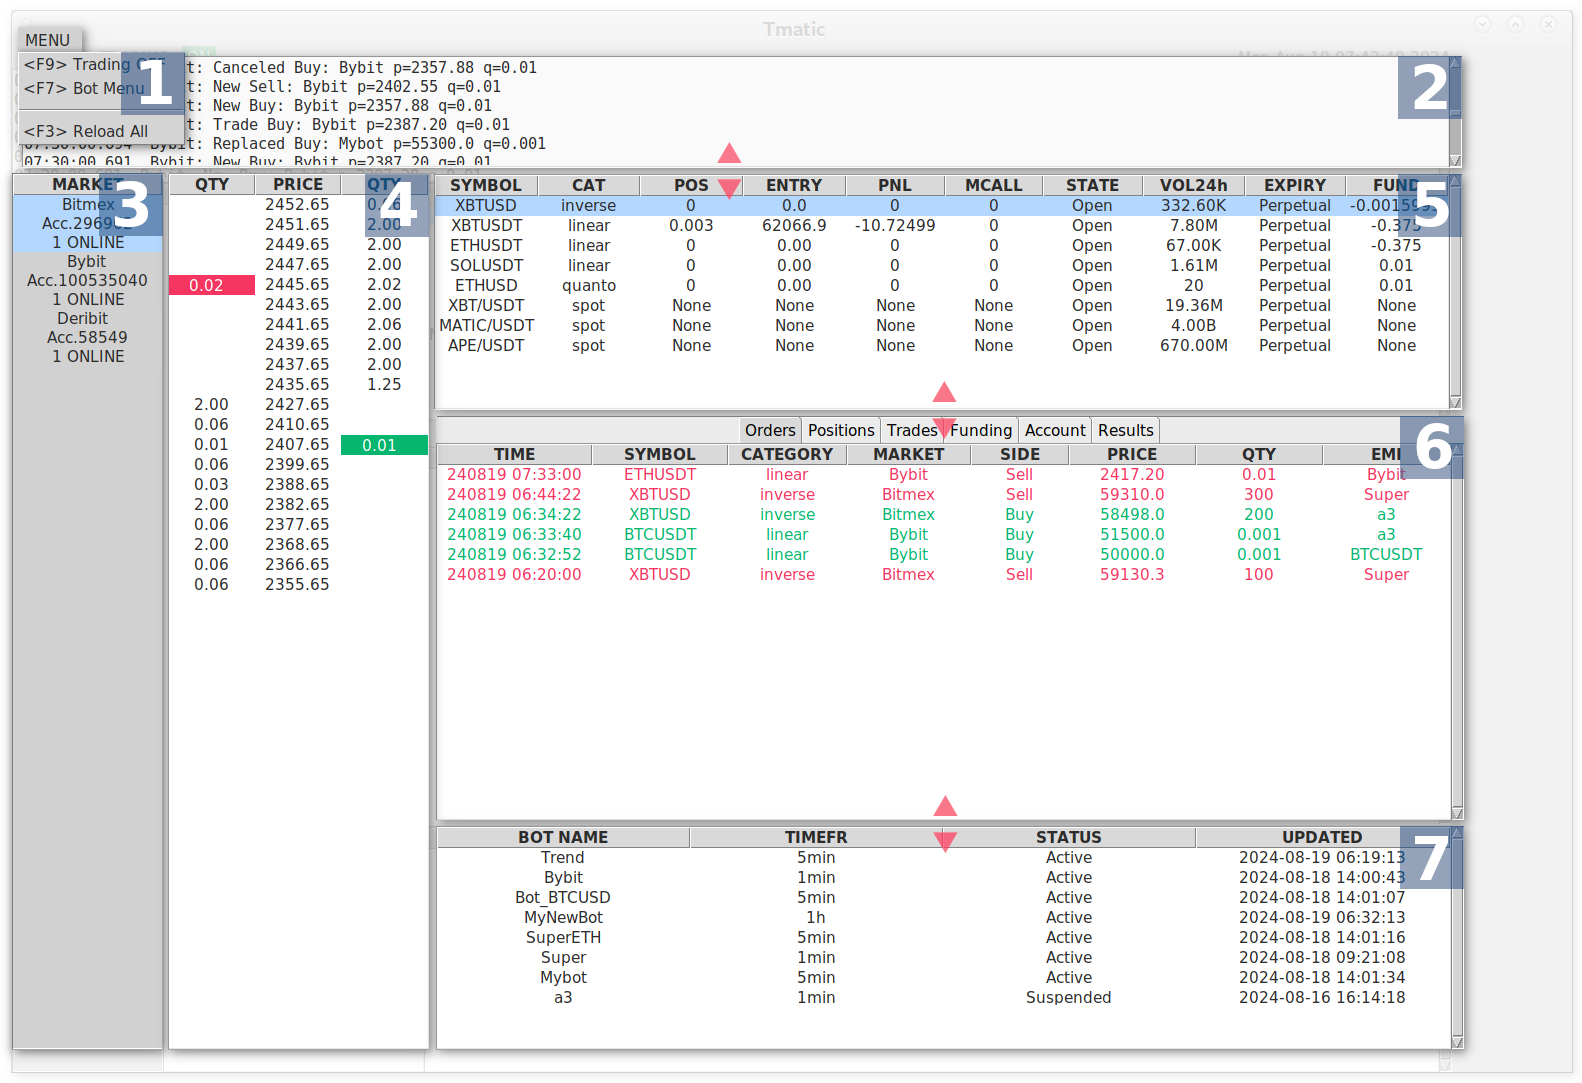
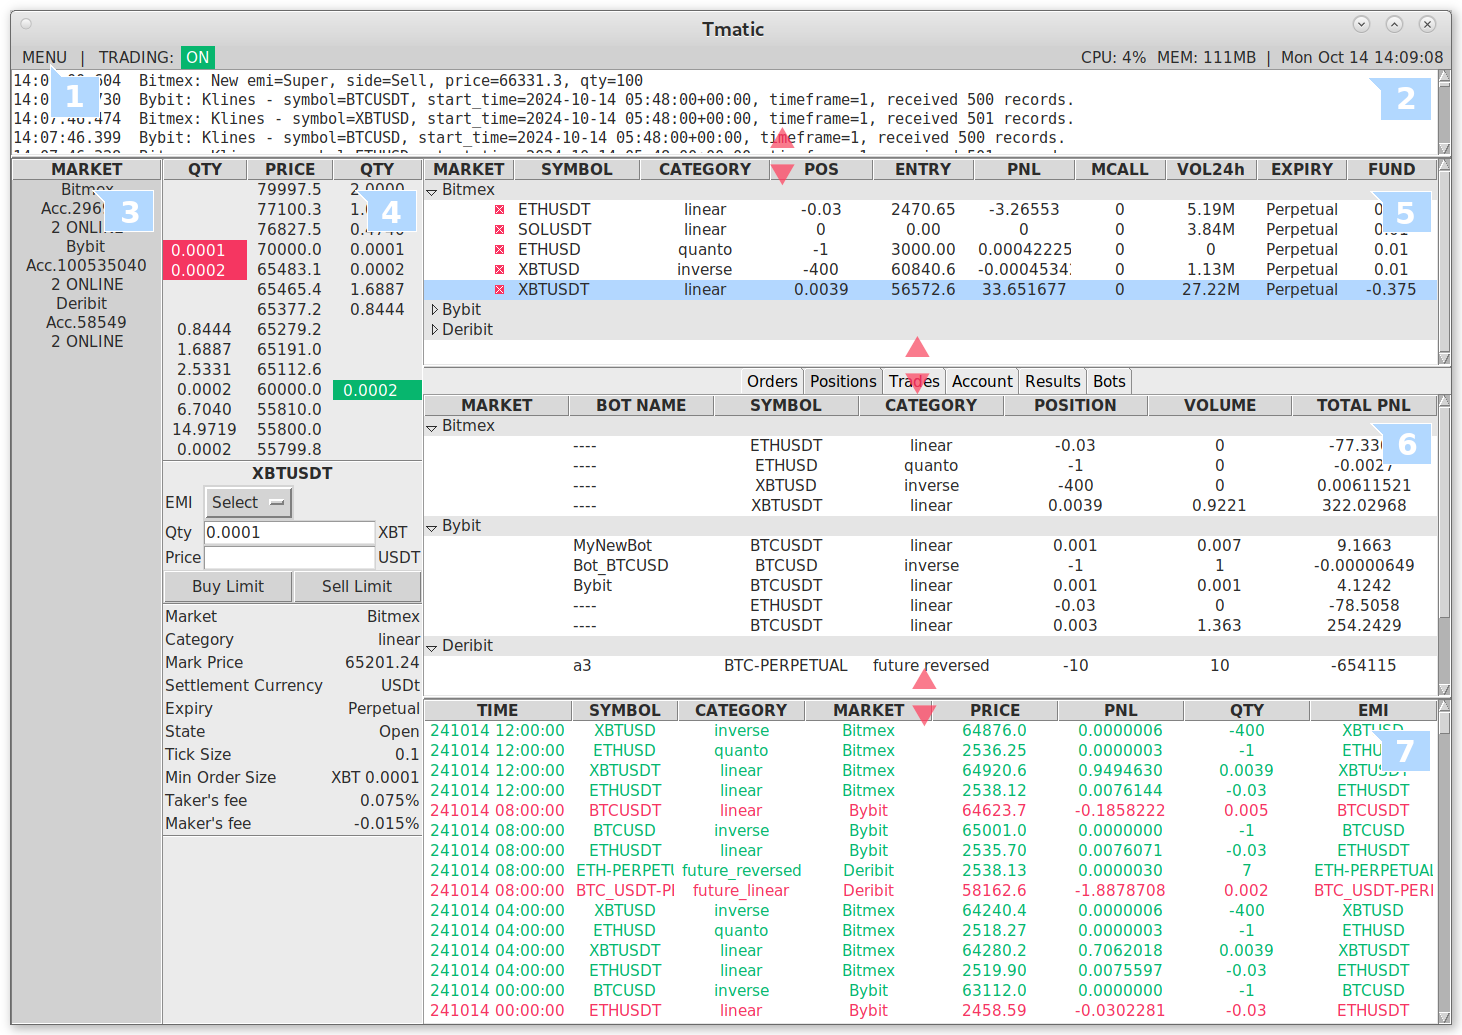
README.md update

diff --git a/README.md b/README.md
@@ -265,13 +265,16 @@ What happens if you place an order from the standard exchange trading web interf
 
 ![Image](https://github.com/evgrmn/tmatic/blob/main/scr/control.png)
 
-1. Use the Menu to activate the auto trading mode, or go to the Bot menu, or restart the program.
+1. Use the Menu to activate the auto trading mode, or go to the Bot menu, or the Settings menu, or restart the program.
 
 2. The information widget displays all trading operations and various useful information during the program operation, including errors if they occur.
 
-3. The Market menu switches between exchanges, displays the connection status, account number and the number of exchange reloads due to poor connection or other reasons.
+3. The Instruments menu allows you to subscribe to available instruments to receive live market data. The menu separates instruments by category and currency. It also displays the connection status, account number, and the number of times the exchange has been rebooted due to poor connection or other reasons. Once you subscribe to an instrument, it appears in section 5.
 
-4. You can click on the order book area to place a new order. You can place an order for all available bots. Moreover, an order can be placed for a specific instrument that does not belong to any bot.
+> [!NOTE]
+> Options are subscribed to in series for all available call and put strikes. For each option, a subscription is made to the orderbook and ticker websocket streams. Therefore, it should be noted that subscribing to only one option series can cause a hundred or more streams at the same time, which in turn will cause a large network load. After subscribing to an option series, the option selection is made through the Option Chain.
+
+4. You can use the order book area to place a new order. You can place an order for all available bots. Moreover, an order can be placed for a specific instrument that does not belong to any bot.
 
 5. Click on the instrument area to switch the order book to another instrument.
 
